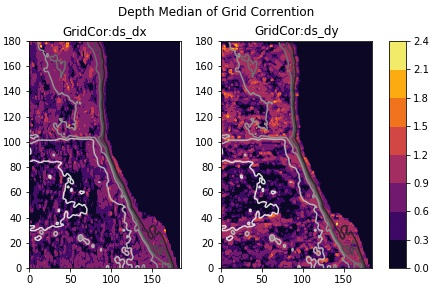
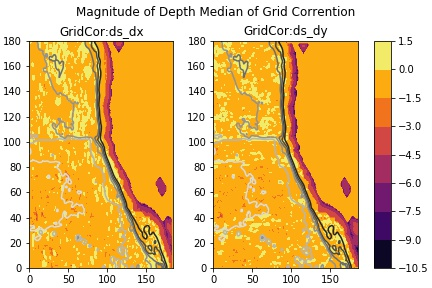
change in variance budget term added

diff --git a/Differential.py b/Differential.py
@@ -6,26 +6,30 @@ Created on Mon Jul  6 12:27:28 2020
 Tools used to create differential volumes and areas of each cell in roms output
 """
 import numpy as np
-from netCDF4 import Dataset as dt
+from netCDF4 import Dataset as nc4
 import obs_depth_JJ as dep
 from ROMS_Tools_Mask import rho_dist_grd as dist
 
 def dV(RomsFile) :
     """ Load full roms grid and compute differential volume of each cell"""
-    RomsNC = dt(RomsFile, 'r')
+    RomsNC = nc4(RomsFile, 'r')
 
     #compute z
-    romsvars = {'h' : RomsNC.variables['h'], \
-                'zeta' : RomsNC.variables['zeta']}
+    romsvars = {'h' : RomsNC.variables['h'][:], \
+                'zeta' : RomsNC.variables['zeta'][:]}
     
     #compute depth at w points
-    depth_domain = dep._set_depth(RomsFile, None, 'w', romsvars['h'], romsvars['zeta'])
+    depth_domain = dep._set_depth_T(RomsFile, None, 'w', romsvars['h'], romsvars['zeta'])
         
-    dz = np.diff(depth_domain, n = 1, axis = 0)
+    dz = np.diff(depth_domain, n = 1, axis = 1)
             
-    #compute lengths of horizontal cell directions
-    dx = np.repeat(1/np.array(RomsNC.variables['pm'])[np.newaxis, :, :], dz.shape[0], axis = 0)
-    dy = np.repeat(1/np.array(RomsNC.variables['pn'])[np.newaxis, :, :], dz.shape[0], axis = 0)
+    #compute lengths of horizontal cell directions & repeat over depth space
+    _dx = np.repeat(1/np.array(RomsNC.variables['pm'])[np.newaxis, :, :], dz.shape[1], axis = 0)
+    _dy = np.repeat(1/np.array(RomsNC.variables['pn'])[np.newaxis, :, :], dz.shape[1], axis = 0)
+    
+    #repeat over time space
+    dx = np.repeat(_dx[np.newaxis, :, :, :], dz.shape[0], axis = 0)
+    dy = np.repeat(_dy[np.newaxis, :, :, :], dz.shape[0], axis = 0)
     
     #compute differential volume of each cell
     DV = dx*dy*dz
@@ -35,11 +39,11 @@ def dV(RomsFile) :
 
 def dA_int_w(RomsFile) :
     """ Compute differential area of each cell interpolating depth at w points to u, v points """
-    RomsNC = dt(RomsFile, 'r')
+    RomsNC = nc4(RomsFile, 'r')
       
     #depth at w points
-    depth_w = dep._set_depth(RomsFile, None, 'w', RomsNC.variables['h'],RomsNC.variables['zeta'])
-    dz_w = np.diff(depth_w, n = 1, axis = 0)
+    depth_w = dep._set_depth_T(RomsFile, None, 'w', RomsNC.variables['h'][:],RomsNC.variables['zeta'][:])
+    dz_w = np.diff(depth_w, n = 1, axis = 1)
     
     # lon at rho points 
     lon_rho0 = RomsNC.variables['lon_rho'][:, 0:dz_w.shape[2]-1]
@@ -52,7 +56,8 @@ def dA_int_w(RomsFile) :
     z_rho0 = dz_w[:, :, 0:dz_w.shape[2]-1] 
     z_rho1 = dz_w[:, :, 1:dz_w.shape[2]]
     
-    #interpolation to u points
+    #interpolation to u points >>>>>>>>>>>> lon_ vars need to be repeated over depth and time <<<<<<<<<<<<<<<<<<<<<<<<<<<<<<
+    #>>>>>>>>>>>>>>>>>>>>>>>>>>>>>>>>>>>>>> Write subroutine to do this and replace all over  <<<<<<<<<<<<<<<<<<<<<<<<<<<<<<
     dz_u = z_rho0 + (z_rho1 - z_rho0)/(lon_rho1 - lon_rho0)*(lon_u - lon_rho0)
     
     # depth at v points
@@ -83,7 +88,7 @@ def dA_int_w(RomsFile) :
 def dAz_psi(RomsFile) :
     """Compute differential area of each cell using a trapazoid at psi points"""
     #load roms file
-    RomsNC = dt(RomsFile, 'r')
+    RomsNC = nc4(RomsFile, 'r')
     
     #compute z
     romsvars = {'h' : RomsNC.variables['h'], \

diff --git a/ROMS_Tools_Mask.py b/ROMS_Tools_Mask.py
@@ -6,8 +6,6 @@ Created on Thu Jul  9 15:31:03 2020
 """
 import numpy as np
 from netCDF4 import Dataset as dt
-import obs_depth_JJ as dep
-from Filters import godinfilt 
 import seawater as sw
 
 def RhoPsiIndex_Mask(RomsFile, latbounds, lonbounds):
@@ -35,11 +33,50 @@ def RhoPsiIndex_Mask(RomsFile, latbounds, lonbounds):
     
     return RhoMask, PsiMask
 
+def FaceMask(RomsFile, latbounds, lonbounds) :
+    """
+    Define masks along each face of control volume
+    """
+    RomsNC = dt(RomsFile, 'r')
+    var = RomsNC.variables['salt']
+    
+    #north face
+    Rholats = (RomsNC.variables['lat_rho'][:] == latbounds[0])*(RomsNC.variables['lat_rho'][:] <= latbounds[1])
+    Rholons = (RomsNC.variables['lon_rho'][:] >= lonbounds[0])*(RomsNC.variables['lon_rho'][:] <= lonbounds[1])
+    _NF = np.invert(Rholats*Rholons)
+    _NFdep = np.repeat(np.array(_NF)[np.newaxis, :, :], var.shape[1], axis = 0)
+    NorthFace = np.repeat(np.array(_NFdep)[np.newaxis, :, :, :], var.shape[0], axis = 0)
+    
+    #south face
+    Rholats = (RomsNC.variables['lat_rho'][:] >= latbounds[0])*(RomsNC.variables['lat_rho'][:] == latbounds[1])
+    Rholons = (RomsNC.variables['lon_rho'][:] >= lonbounds[0])*(RomsNC.variables['lon_rho'][:] <= lonbounds[1])
+    _SF = np.invert(Rholats*Rholons)
+    _SFdep = np.repeat(np.array(_SF)[np.newaxis, :, :], var.shape[1], axis = 0)
+    SouthFace = np.repeat(np.array(_SFdep)[np.newaxis, :, :, :], var.shape[0], axis = 0)
+    
+    #east face
+    Rholats = (RomsNC.variables['lat_rho'][:] >= latbounds[0])*(RomsNC.variables['lat_rho'][:] <= latbounds[1])
+    Rholons = (RomsNC.variables['lon_rho'][:] == lonbounds[0])*(RomsNC.variables['lon_rho'][:] <= lonbounds[1])
+    _EF = np.invert(Rholats*Rholons)
+    _EFdep = np.repeat(np.array(_EF)[np.newaxis, :, :], var.shape[1], axis = 0)
+    EastFace = np.repeat(np.array(_EFdep)[np.newaxis, :, :, :], var.shape[0], axis = 0)
+    
+    #west face
+    Rholats = (RomsNC.variables['lat_rho'][:] >= latbounds[0])*(RomsNC.variables['lat_rho'][:] <= latbounds[1])
+    Rholons = (RomsNC.variables['lon_rho'][:] >= lonbounds[0])*(RomsNC.variables['lon_rho'][:] == lonbounds[1])
+    _WF = np.invert(Rholats*Rholons)
+    _WFdep = np.repeat(np.array(_WF)[np.newaxis, :, :], var.shape[1], axis = 0)
+    WestFace = np.repeat(np.array(_WFdep)[np.newaxis, :, :, :], var.shape[0], axis = 0)
+    
+    return NorthFace, WestFace, SouthFace, EastFace
+
+
+
 def ROMS_CV(varname, RomsFile, Mask):
     #load
     RomsNC = dt(RomsFile, 'r')
     
-    Var = np.ma.MaskedArray(RomsNC.variables[varname], Mask)
+    Var = np.ma.array(RomsNC.variables[varname][:], mask = Mask)
     
     return Var
     

diff --git a/Budget_ROMS.py b/Budget_ROMS.py
@@ -6,10 +6,15 @@ Created on Thu Jul 30 15:16:12 2020
 """
 import os
 os.chdir('/Users/Jasen/Documents/GitHub/ROMS_Budget/')
-import numpy as np
+
+import numpy.ma as ma
+import Budget_Terms as bud
+import ROMS_Tools_Mask as rt
+
 import Differential as df
 import Gradients as gr
-import ROMS_Tools_Mask as rt
+import Filters as flt
+import numpy as np
 
 # files
 RomsFile = '/Users/Jasen/Documents/Data/ROMS_TestRuns/wc12_his_5day.nc'
@@ -18,18 +23,47 @@ RomsGrd = '/Users/Jasen/Documents/Data/ROMS_TestRuns/wc12_grd.nc.0'
 # variable
 varname = 'salt'
 
-#bounds
+#bounds of control volume
 latbounds = [35, 37]
 lonbounds = [-126, -125]
 
 # define mask
-RhoMask, PsiMask = rt.RhoPsiIndex_Mask(RomsFile, latbounds, lonbounds)
+RhoMask, _ = rt.RhoPsiIndex_Mask(RomsFile, latbounds, lonbounds)
 
 #load and subset variable
-Salt = rt.ROMS_CV(varname, RomsFile, RhoMask) #masked array too large to work with...
+salt = rt.ROMS_CV(varname, RomsFile, RhoMask) 
 
-S_bar = np.mean(Salt, axis = 3)
+#deviation from volume mean in each time step
+_prime = bud.Prime(salt)
+S_prime = ma.array(_prime, mask = RhoMask)
 
-salt = RomsNC.variables['salt'][:]
+#variance
+S_var = S_prime*S_prime   
+       
+#Term 1: change in variance within control volume
+dVar_dt = bud.TermOne(RomsFile, RhoMask, S_var)
 
-sbar = np.mean(salt[4,:,:,:])
+#Term 2: Flux of variance across boundary
+#define masks
+NorthFace, WestFace, SouthFace, EastFace = rt.FaceMask(RomsFile,\
+                                                       latbounds, lonbounds)
+
+#subset variance
+_NorthPrime = ma.array(_prime, mask = NorthFace)
+NorthVar = _NorthPrime**2
+
+_WestPrime = ma.array(_prime, mask = WestFace)
+WestVar = _WestPrime**2
+
+_SouthPrime = ma.array(_prime, mask = SouthFace)
+SouthVar = _SouthPrime**2
+
+_EastPrime = ma.array(_prime, mask = EastFace)
+EastVar = _EastPrime**2
+
+#subset differential areas
+A_xz, A_yz = df.dA_int_w(RomsFile) #area code need to be repeated over depth and time
+
+
+
+

diff --git a/Budget_Terms.py b/Budget_Terms.py
@@ -1,0 +1,51 @@
+# -*- coding: utf-8 -*-
+"""
+Created on Mon Aug  3 15:27:30 2020
+
+Compute each term in variance budget
+
+@author: Jasen
+"""
+import numpy as np
+import numpy.ma as ma
+from netCDF4 import Dataset as nc4
+import Differential as df
+
+def Prime(var_4dim) :
+    """
+    Compute anomaly of variable for each time step
+    var_4dim = var_4dim[time, depth, lat, lon]
+    """
+    var_prime = np.empty(var_4dim.shape)
+    var_prime.fill(np.nan)
+    for n in range(var_4dim.shape[0]) :
+        var_prime[n, :, :, :] = var_4dim[n,:,:,:] - np.mean(var_4dim[n, :, :, :])
+    
+    return var_prime
+
+def TermOne(RomsFile, Mask, Variance) :
+    """
+    Compute the change of variance within a control volume
+    """
+    #ocean time
+    RomsNC = nc4(RomsFile, 'r')
+    time = RomsNC.variables['ocean_time']
+    
+    #differential volume
+    dv = df.dV(RomsFile)
+    dv = ma.array(dv, mask = Mask)
+    
+    #multiply to get integrad
+    S_m = Variance*dv
+    
+    #integrate volume at each time step
+    S_int = np.empty(S_m.shape[0])
+    S_int.fill(np.nan)
+    for n in range(S_int.shape[0]) :
+        S_int[n] = np.sum(S_m[n, :, :, :])
+        
+    #time derivative
+    dVar_dt = np.diff(S_int)/np.diff(time)
+    
+    return dVar_dt
+

diff --git a/ScalingGridCorrection.py b/ScalingGridCorrection.py
@@ -19,8 +19,8 @@ RomsGrd = '/Users/Jasen/Documents/Data/ROMS_TestRuns/wc12_grd.nc.0'
 varname = 'salt'
 
 #load bathymetry
-romnc = nc4(RomsFile, 'r')
-bathy = romnc.variables['h'][:]
+RomsNC = nc4(RomsFile, 'r')
+bathy = RomsNC.variables['h'][:]
 
 #horizontal gradients
 ds_dx = gr.x_grad(RomsFile, RomsGrd, varname)
@@ -36,9 +36,16 @@ y_rat = np.array(np.abs(yCor)/np.abs(ds_dy))
 
 #median ratio
 DM_ratx = np.median(x_rat[0,:,:,:], axis = 0)
-DM_raty = np.median(y_rat[0,:,:,:], axis = 0)
 
-#
+#log median ration, skipping zeros
+for n in range(DM_ratx.shape[0]) :
+    ind = DM_ratx[n,:] != 0
+    DM_ratx[n,ind] = np.log10(DM_ratx[n,ind])
+
+DM_raty = np.median(y_rat[0,:,:,:], axis = 0)
+for n in range(DM_raty.shape[0]) :
+    ind = DM_raty[n,:] != 0
+    DM_raty[n,ind] = np.log10(DM_raty[n, ind])
 
 #plotting
 fig1, (ax1, ax2) = plt.subplots(nrows = 1, ncols = 2, constrained_layout=True)
@@ -51,6 +58,7 @@ CS = ax2.contourf(DM_raty, cmap = plt.cm.inferno)
 CS1 = ax2.contour(bathy, cmap = plt.cm.gray) 
 ax2.set_title('GridCor:ds_dy')
 fig1.colorbar(CS)
+fig1.suptitle('Magnitude of Depth Median of Grid Corrention')
 
-fig1.suptitle('Depth Median of Grid Corrention')
+plt.figure(figsize=(20,10))
 fig1.savefig('GridCor_Map.jpg')

diff --git a/obs_depth_JJ.py b/obs_depth_JJ.py
@@ -258,10 +258,10 @@ def _set_depth_T(romsfile=None, romsvars=None, point_type=None, h=None, zeta=0):
             hr = h
             zetar = zeta
             
-            z = np.empty((zetar.shape[0], N+use_w, h.shape[0], h.shape[1]))
+            z = np.empty((zetar.shape[0], N+use_w, hr.shape[0], hr.shape[1]))
             z.fill(np.nan)
             
-            z[0, :, :] = -hr
+            z[:, 0, :, :] = -hr
             for k in range(1, z.shape[1]):
                 z0 = (s[k]-C[k])*romsvars['hc'] + C[k]*hr
                 
